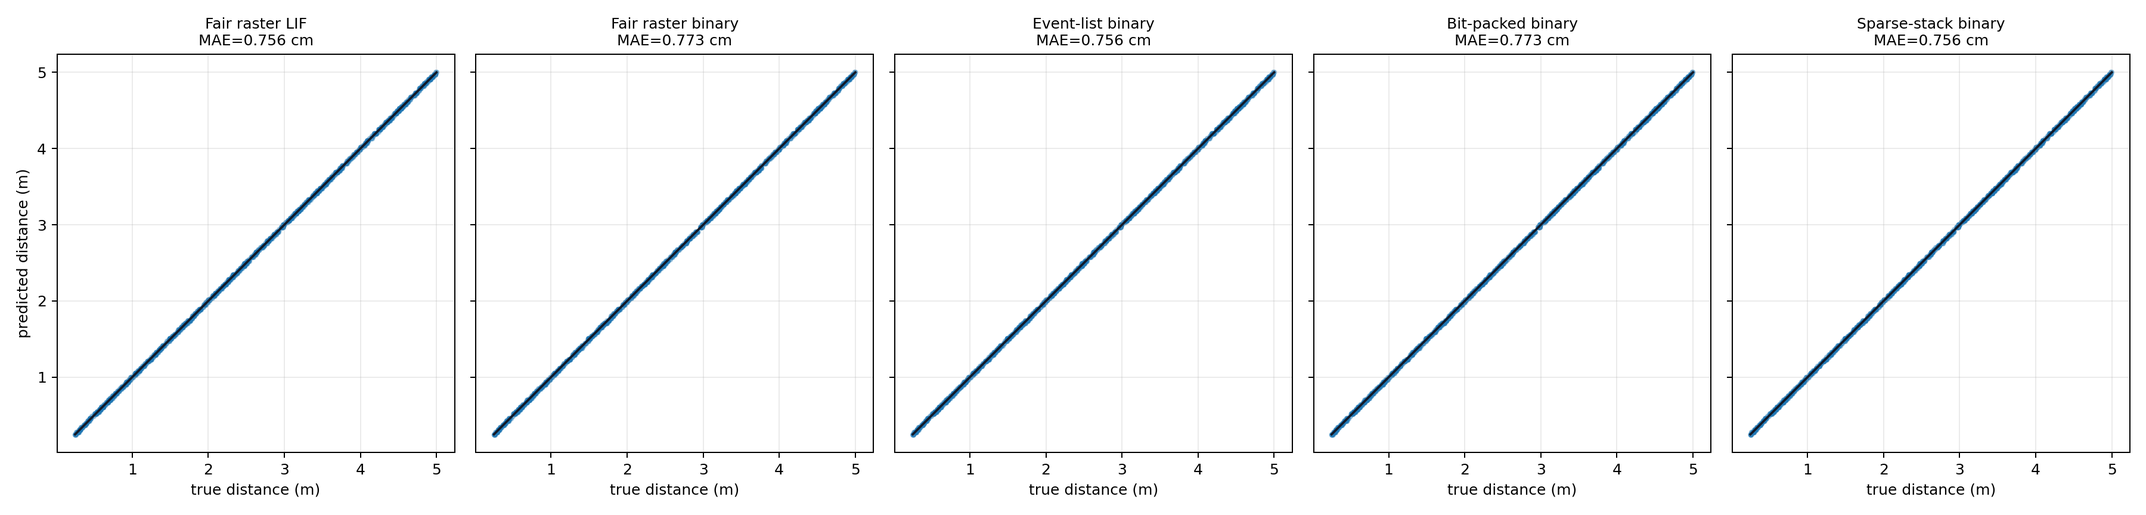
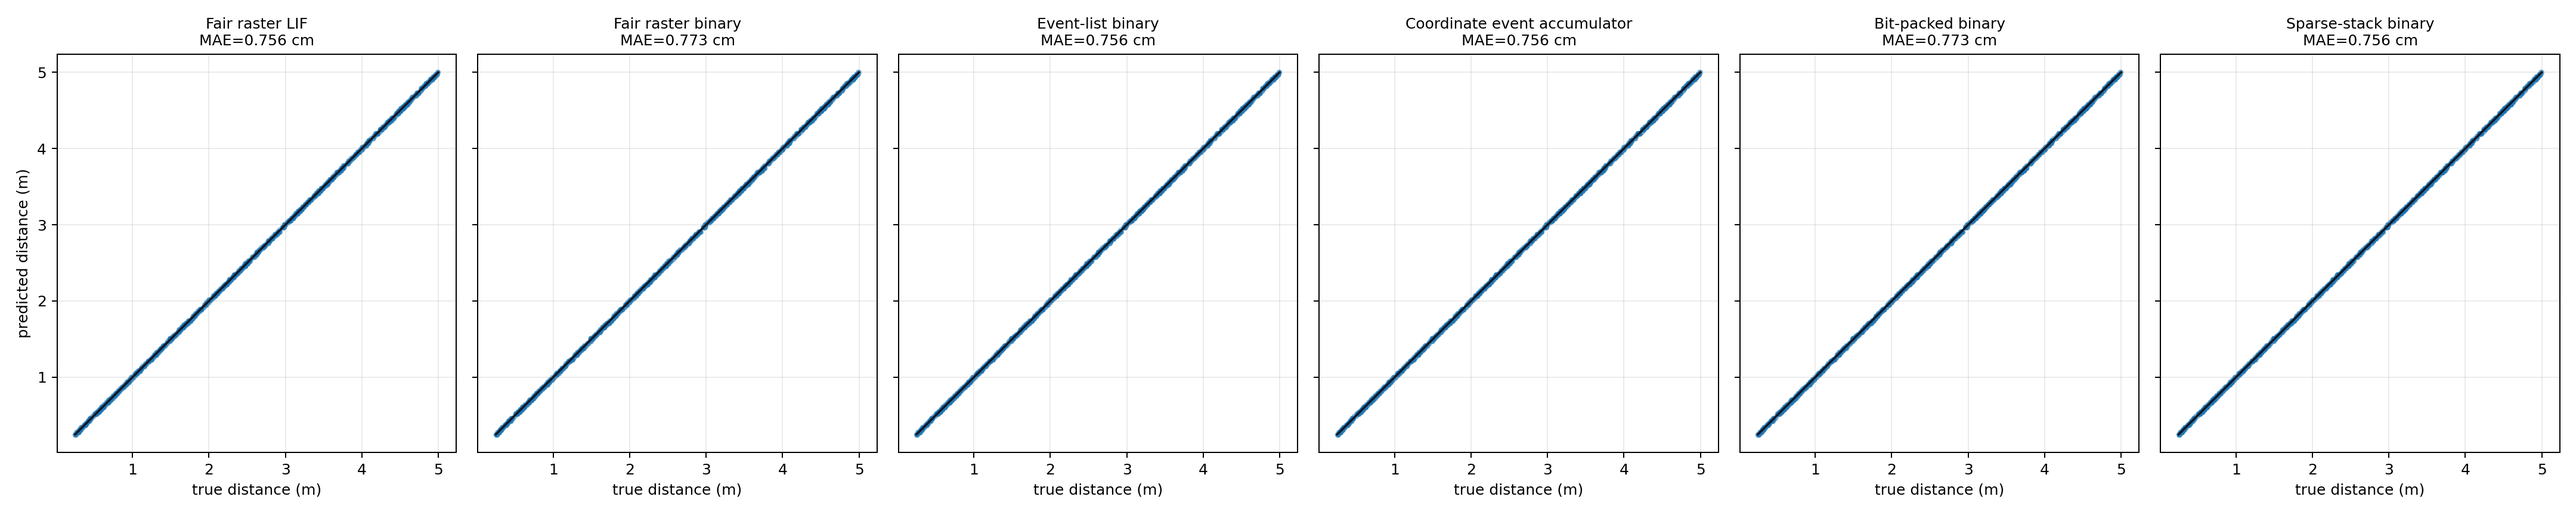
Coordinate event accumulator optimiser

diff --git a/distance_pathway/experiments/binary_clean_optimisation.py b/distance_pathway/experiments/binary_clean_optimisation.py
@@ -195,8 +195,23 @@ def _observed_delay_matrix(dataset: CleanSweepDataset) -> np.ndarray:
     return delays
 
 
-def _paired_event_delays_from_nonzero(dataset: CleanSweepDataset) -> tuple[np.ndarray, np.ndarray]:
-    """Extract paired echo-minus-CD delays from sparse event lists.
+def _event_coordinate_matrix(raster: torch.Tensor) -> np.ndarray:
+    """Convert a Boolean raster into a compact event coordinate matrix.
+
+    Args:
+        raster: Boolean raster with shape `[samples, channels, time]`.
+
+    Returns:
+        Integer coordinate matrix with shape `[num_spikes, 3]`, where columns
+        are `(sample_index, channel_index, timestamp)`.
+    """
+    return raster.nonzero(as_tuple=False).cpu().numpy().astype(np.int64)
+
+
+def _paired_event_coordinates_from_nonzero(
+    dataset: CleanSweepDataset,
+) -> tuple[np.ndarray, np.ndarray, np.ndarray]:
+    """Extract paired event coordinates and echo-minus-CD delays.
 
     This prototype starts from dense rasters, so `nonzero` still scans the
     raster once. The downstream computation, however, is event-list based and
@@ -206,10 +221,10 @@ def _paired_event_delays_from_nonzero(dataset: CleanSweepDataset) -> tuple[np.nd
         dataset: Clean sweep dataset.
 
     Returns:
-        Tuple of `(sample_ids, observed_delays)`.
+        Tuple of `(sample_ids, channel_ids, observed_delays)`.
     """
-    cd_events = dataset.cd_raster.nonzero(as_tuple=False).cpu().numpy()
-    echo_events = dataset.echo_raster.nonzero(as_tuple=False).cpu().numpy()
+    cd_events = _event_coordinate_matrix(dataset.cd_raster)
+    echo_events = _event_coordinate_matrix(dataset.echo_raster)
 
     cd_order = np.lexsort((cd_events[:, 1], cd_events[:, 0]))
     echo_order = np.lexsort((echo_events[:, 1], echo_events[:, 0]))
@@ -220,7 +235,21 @@ def _paired_event_delays_from_nonzero(dataset: CleanSweepDataset) -> tuple[np.nd
         raise ValueError("Clean event-list benchmark expects one CD and one echo event per sample/channel.")
 
     sample_ids = echo_events[:, 0].astype(np.int64)
+    channel_ids = echo_events[:, 1].astype(np.int64)
     observed_delays = (echo_events[:, 2] - cd_events[:, 2]).astype(np.int64)
+    return sample_ids, channel_ids, observed_delays
+
+
+def _paired_event_delays_from_nonzero(dataset: CleanSweepDataset) -> tuple[np.ndarray, np.ndarray]:
+    """Extract paired echo-minus-CD delays from sparse event lists.
+
+    Args:
+        dataset: Clean sweep dataset.
+
+    Returns:
+        Tuple of `(sample_ids, observed_delays)`.
+    """
+    sample_ids, _, observed_delays = _paired_event_coordinates_from_nonzero(dataset)
     return sample_ids, observed_delays
 
 
@@ -282,6 +311,49 @@ def _predict_event_list_binary(dataset: CleanSweepDataset) -> np.ndarray:
     nearest_candidates = np.argmin(distance_to_candidates, axis=1)
     scores = np.zeros((NUM_TEST_SAMPLES, NUM_DELAY_LINES), dtype=np.int32)
     np.add.at(scores, (sample_ids, nearest_candidates), 1)
+    return np.argmax(scores, axis=1)
+
+
+def _build_nearest_candidate_lookup(dataset: CleanSweepDataset) -> np.ndarray:
+    """Build a direct integer-delay to nearest-candidate lookup table.
+
+    Args:
+        dataset: Clean sweep dataset.
+
+    Returns:
+        Lookup array where index is integer sample delay and value is nearest
+        candidate-delay index.
+    """
+    max_delay = int(dataset.candidate_delay_samples.max()) + dataset.binary_tolerance_samples
+    delay_axis = np.arange(max_delay + 1)
+    return np.argmin(
+        np.abs(delay_axis[:, None] - dataset.candidate_delay_samples[None, :]), axis=1
+    ).astype(np.int64)
+
+
+def _predict_coordinate_event_accumulator(dataset: CleanSweepDataset) -> np.ndarray:
+    """Predict distance with a coordinate event accumulator.
+
+    This combines the useful parts of the event-list and sparse-stack methods.
+    The raster is reduced to compact coordinates `(batch, channel, time)`, echo
+    and CD times are subtracted as vectors, integer delays are quantised through
+    a lookup table, and votes are accumulated with `np.bincount`.
+
+    Args:
+        dataset: Clean sweep dataset.
+
+    Returns:
+        Predicted candidate indices.
+    """
+    sample_ids, _, observed_delays = _paired_event_coordinates_from_nonzero(dataset)
+    lookup = _build_nearest_candidate_lookup(dataset)
+    valid = (observed_delays >= 0) & (observed_delays < lookup.size)
+    candidate_ids = lookup[observed_delays[valid]]
+    vote_ids = sample_ids[valid] * NUM_DELAY_LINES + candidate_ids
+    scores = np.bincount(
+        vote_ids,
+        minlength=NUM_TEST_SAMPLES * NUM_DELAY_LINES,
+    ).reshape(NUM_TEST_SAMPLES, NUM_DELAY_LINES)
     return np.argmax(scores, axis=1)
 
 
@@ -458,6 +530,7 @@ def _operation_estimates(dataset: CleanSweepDataset) -> dict[str, tuple[float, f
         "Fair raster LIF": (dense_score_ops * 8.0, dense_score_ops * 2.0),
         "Fair raster binary": (0.0, dense_score_ops),
         "Event-list binary": (0.0, events * math.ceil(math.log2(candidate_delays))),
+        "Coordinate event accumulator": (0.0, events),
         "Bit-packed binary": (0.0, samples * channels * candidate_delays * words),
         "Sparse-stack binary": (0.0, events),
     }
@@ -602,6 +675,8 @@ def _write_report(
         "| True distance | continuous target distance | error calculation only |",
         "| True delay | generated echo shift | generation/error only, not prediction |",
         "",
+        "For this clean sweep benchmark there is exactly one CD spike per sample/channel and one echo spike per sample/channel. That lets the coordinate methods pair events by `(sample, channel)` without an ambiguity-resolution rule.",
+        "",
         "![Clean sweep rasters](../outputs/binary_clean_optimisation/figures/clean_sweep_rasters.png)",
         "",
         "## Metrics",
@@ -641,6 +716,36 @@ def _write_report(
         "delay_events = echo_events.time - cd_events.time",
         "score[nearest_candidate(delay_event)] += 1",
         "```",
+        "",
+        "### Coordinate Event Accumulator",
+        "",
+        "This combines the event-list and sparse-stack ideas. The raster is converted into a compact coordinate matrix:",
+        "",
+        "```text",
+        "CD coordinates   = [[batch, channel, time], ...]",
+        "Echo coordinates = [[batch, channel, time], ...]",
+        "```",
+        "",
+        "Since the CD has one spike per channel, CD and echo events can be sorted by `(batch, channel)` and paired directly. The detector then performs vector subtraction and candidate lookup:",
+        "",
+        "```text",
+        "delay_i = echo_time_i - cd_time_i",
+        "candidate_i = nearest_candidate_lookup[delay_i]",
+        "score[batch_i, candidate_i] += 1",
+        "prediction = argmax_candidate(score)",
+        "```",
+        "",
+        "The accumulator uses `np.bincount` over flattened `(batch, candidate)` vote IDs rather than building a dense raster or a PyTorch sparse tensor. This is the current recommended implementation direction for sparse clean spikes.",
+        "",
+        "| Parameter | Value / behaviour |",
+        "|---|---|",
+        f"| CD spikes | `{NUM_TEST_SAMPLES * SWEEP_CHANNELS}` total, exactly one per sample/channel |",
+        f"| Echo spikes | `{NUM_TEST_SAMPLES * SWEEP_CHANNELS}` total, exactly one per sample/channel |",
+        "| Coordinate columns | `batch index`, `channel index`, `timestamp` |",
+        "| Pairing key | sorted `(batch, channel)` |",
+        "| Delay calculation | vectorised `echo_time - cd_time` |",
+        "| Candidate quantisation | nearest-candidate lookup table |",
+        "| Vote accumulation | vectorised `np.bincount` over flattened `(batch, candidate)` IDs |",
         "",
         "### Bit-Packed Binary",
         "",
@@ -697,7 +802,8 @@ def _write_report(
             "## Interpretation",
             "",
             "- The fair raster LIF and fair raster binary methods now consume only input rasters, so they are valid detector baselines.",
-            "- The event-list and sparse-stack methods are the best conceptual fit for sparse spikes because they avoid scanning empty time samples.",
+            "- The coordinate event accumulator is the most direct combination of the event-list and sparse-stack ideas: represent spikes as coordinates, compute delays by vector subtraction, then accumulate candidate votes.",
+            "- The event-list and sparse-stack methods are kept as comparison points because they show the two halves of the combined coordinate accumulator.",
             "- The bit-packed method is closer to a real binary hardware implementation, but this Python-int prototype is mainly a correctness and scaling demonstration.",
             "- Dense `unfold` is no longer treated as the main optimised method because it turns sparse spikes into a large dense memory-traffic problem.",
             "",
@@ -729,6 +835,7 @@ def main() -> dict[str, object]:
         ("Fair raster LIF", _predict_fair_lif_raster),
         ("Fair raster binary", _predict_fair_binary_raster),
         ("Event-list binary", _predict_event_list_binary),
+        ("Coordinate event accumulator", _predict_coordinate_event_accumulator),
         ("Bit-packed binary", _predict_bit_packed_binary),
         ("Sparse-stack binary", _predict_sparse_stack_binary),
     ]

diff --git a/distance_pathway/reports/binary_clean_optimisation.md b/distance_pathway/reports/binary_clean_optimisation.md
@@ -31,6 +31,8 @@ This is fair because the detector must infer delay from spike timing in the inpu
 | True distance | continuous target distance | error calculation only |
 | True delay | generated echo shift | generation/error only, not prediction |
 
+For this clean sweep benchmark there is exactly one CD spike per sample/channel and one echo spike per sample/channel. That lets the coordinate methods pair events by `(sample, channel)` without an ambiguity-resolution rule.
+
 ![Clean sweep rasters](../outputs/binary_clean_optimisation/figures/clean_sweep_rasters.png)
 
 ## Metrics
@@ -70,6 +72,36 @@ events = nonzero(spike_raster)
 delay_events = echo_events.time - cd_events.time
 score[nearest_candidate(delay_event)] += 1
 ```
+
+### Coordinate Event Accumulator
+
+This combines the event-list and sparse-stack ideas. The raster is converted into a compact coordinate matrix:
+
+```text
+CD coordinates   = [[batch, channel, time], ...]
+Echo coordinates = [[batch, channel, time], ...]
+```
+
+Since the CD has one spike per channel, CD and echo events can be sorted by `(batch, channel)` and paired directly. The detector then performs vector subtraction and candidate lookup:
+
+```text
+delay_i = echo_time_i - cd_time_i
+candidate_i = nearest_candidate_lookup[delay_i]
+score[batch_i, candidate_i] += 1
+prediction = argmax_candidate(score)
+```
+
+The accumulator uses `np.bincount` over flattened `(batch, candidate)` vote IDs rather than building a dense raster or a PyTorch sparse tensor. This is the current recommended implementation direction for sparse clean spikes.
+
+| Parameter | Value / behaviour |
+|---|---|
+| CD spikes | `32000` total, exactly one per sample/channel |
+| Echo spikes | `32000` total, exactly one per sample/channel |
+| Coordinate columns | `batch index`, `channel index`, `timestamp` |
+| Pairing key | sorted `(batch, channel)` |
+| Delay calculation | vectorised `echo_time - cd_time` |
+| Candidate quantisation | nearest-candidate lookup table |
+| Vote accumulation | vectorised `np.bincount` over flattened `(batch, candidate)` IDs |
 
 ### Bit-Packed Binary
 
@@ -113,16 +145,18 @@ prediction = argmax_candidate(sparse_score)
 
 | Method | MAE (cm) | RMSE (cm) | Nearest-bin accuracy (%) | Runtime (ms) | FLOPs | SOPs / integer ops |
 |---|---:|---:|---:|---:|---:|---:|
-| Fair raster LIF | 0.7562 | 0.8708 | 97.50 | 131.992 | 40,960,000 | 10,240,000 |
-| Fair raster binary | 0.7732 | 0.8995 | 92.90 | 100.698 | 0 | 5,120,000 |
-| Event-list binary | 0.7562 | 0.8708 | 97.50 | 51.663 | 0 | 256,000 |
-| Bit-packed binary | 0.7732 | 0.8995 | 92.90 | 336.070 | 0 | 179,200,000 |
-| Sparse-stack binary | 0.7562 | 0.8708 | 97.50 | 44.019 | 0 | 32,000 |
+| Fair raster LIF | 0.7562 | 0.8708 | 97.50 | 132.326 | 40,960,000 | 10,240,000 |
+| Fair raster binary | 0.7732 | 0.8995 | 92.90 | 100.627 | 0 | 5,120,000 |
+| Event-list binary | 0.7562 | 0.8708 | 97.50 | 47.745 | 0 | 256,000 |
+| Coordinate event accumulator | 0.7562 | 0.8708 | 97.50 | 37.956 | 0 | 32,000 |
+| Bit-packed binary | 0.7732 | 0.8995 | 92.90 | 332.751 | 0 | 179,200,000 |
+| Sparse-stack binary | 0.7562 | 0.8708 | 97.50 | 41.337 | 0 | 32,000 |
 
 ## Interpretation
 
 - The fair raster LIF and fair raster binary methods now consume only input rasters, so they are valid detector baselines.
-- The event-list and sparse-stack methods are the best conceptual fit for sparse spikes because they avoid scanning empty time samples.
+- The coordinate event accumulator is the most direct combination of the event-list and sparse-stack ideas: represent spikes as coordinates, compute delays by vector subtraction, then accumulate candidate votes.
+- The event-list and sparse-stack methods are kept as comparison points because they show the two halves of the combined coordinate accumulator.
 - The bit-packed method is closer to a real binary hardware implementation, but this Python-int prototype is mainly a correctness and scaling demonstration.
 - Dense `unfold` is no longer treated as the main optimised method because it turns sparse spikes into a large dense memory-traffic problem.
 
@@ -133,4 +167,4 @@ prediction = argmax_candidate(sparse_score)
 - `runtime_cost`: `distance_pathway/outputs/binary_clean_optimisation/figures/runtime_cost.png`
 - `results`: `distance_pathway/outputs/binary_clean_optimisation/results.json`
 
-Runtime: `5.16 s`.
+Runtime: `5.37 s`.
